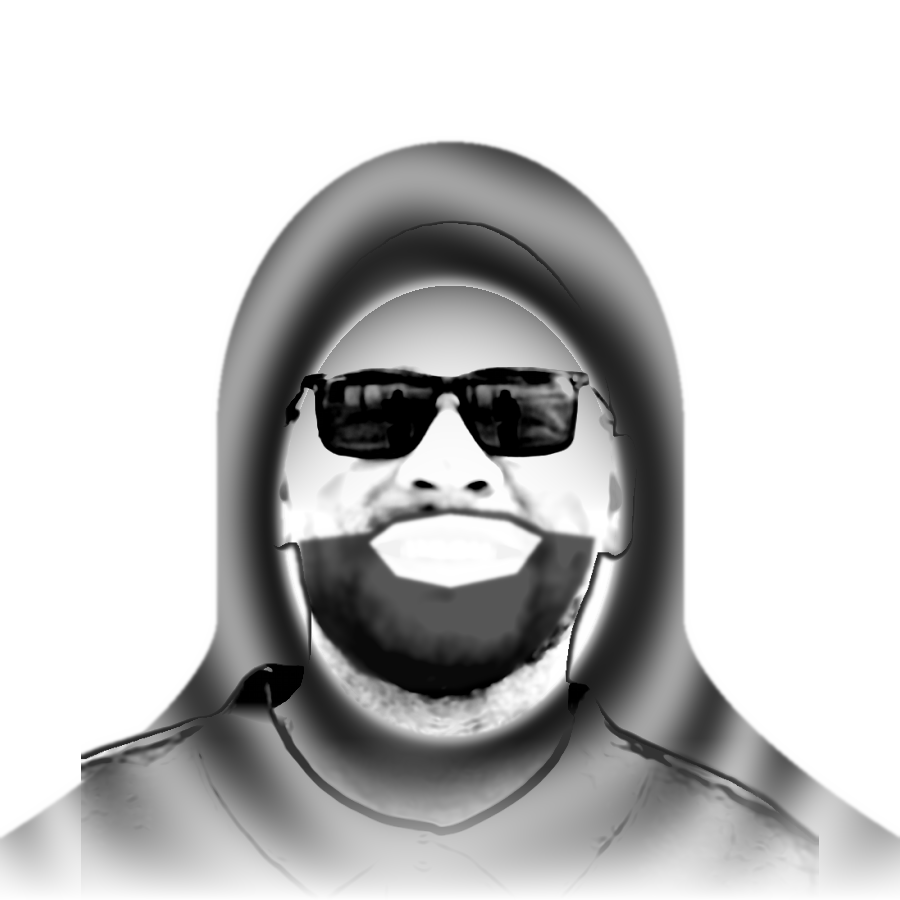
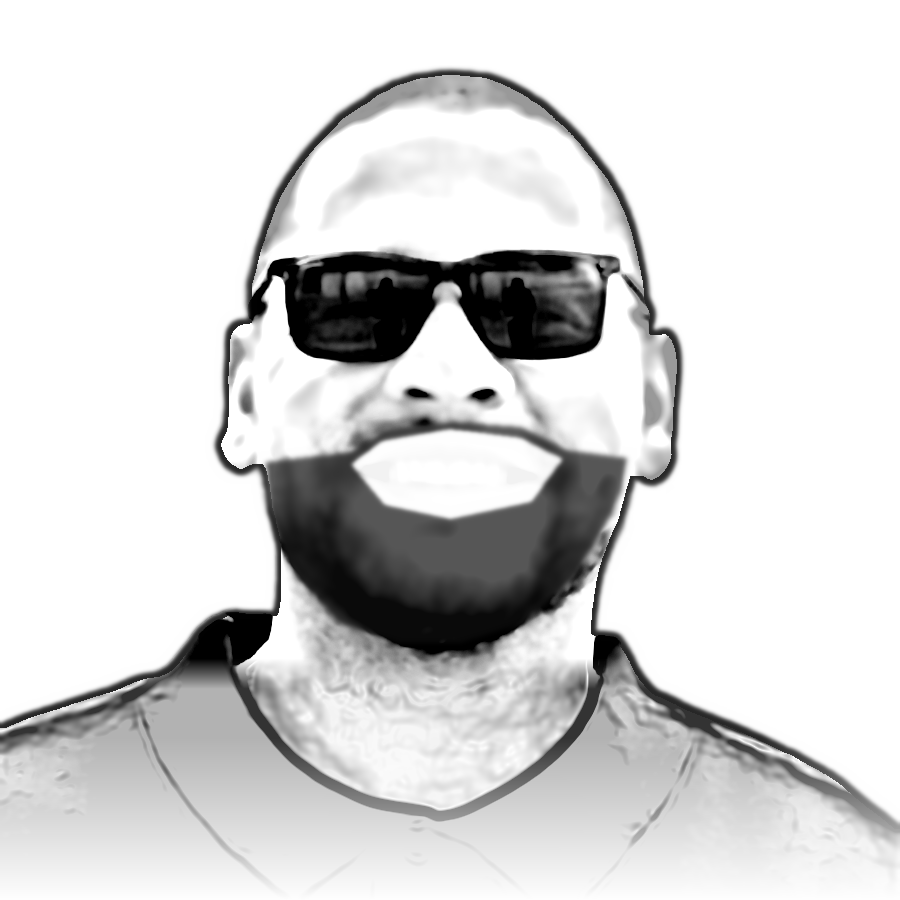
feat: drop hood from ascii portrait and dedupe highlights

diff --git a/scripts/prep_photo.py b/scripts/prep_photo.py
@@ -30,7 +30,7 @@ Usage (run locally; CI never runs the portrait pipeline):
 FACE_BOX and CHIN_Y are in source-photo pixel coordinates; the beard / mouth
 polygons and hood geometry are in working (WORK_W) pixels. Adjust them if the
 source crop changes. Every HOOD_* / BEARD* knob can be overridden from the
-environment, e.g.  HOOD=0 python scripts/prep_photo.py  for the plain version.
+environment, e.g.  HOOD=1 python scripts/prep_photo.py  for the hooded version.
 
 Adapted from AVIVASHISHTA29/AVIVASHISHTA29 (scripts/prep_photo.py).
 """
@@ -77,7 +77,7 @@ BEARD_POLY = [(266, 462), (350, 452), (385, 430), (450, 422), (520, 427), (566, 
 MOUTH_POLY = [(352, 466), (382, 451), (450, 443), (520, 449), (561, 463),
               (530, 491), (450, 503), (385, 493)]   # lips + teeth (smile gap)
 
-HOOD = knob("HOOD", 1)                # 0 = plain portrait, no hood
+HOOD = knob("HOOD", 0)                # 1 = add the procedural hacker hood
 HOOD_ZOOM = knob("HOOD_ZOOM", 0.82)    # portrait scale inside the canvas
 HOOD_W = knob("HOOD_W", 285)          # half-width of the hood at the temples
 HOOD_PEAK = knob("HOOD_PEAK", 95)      # how far the peak rises above the head

diff --git a/scripts/make_info_card.py b/scripts/make_info_card.py
@@ -60,7 +60,6 @@ ROWS = [
     ("AI", "Claude · GPT · Gemini · Groq · LangChain · Ollama · RAG"),
     ("Highlights", None),
     ("-", ("local-rag-chat", "100% local RAG with source citations (open source)")),
-    ("-", ("CONNECT®", "-35% cloud cost, real-time telemetry across sites")),
     ("-", ("Insurance platform", "policy issuance 48h → 2h, +25% conversion")),
     ("-", ("AI scraping pipelines", "50K+ records/day")),
     ("Uptime", "5+ years in production · banking, insurance, energy, public sector"),
